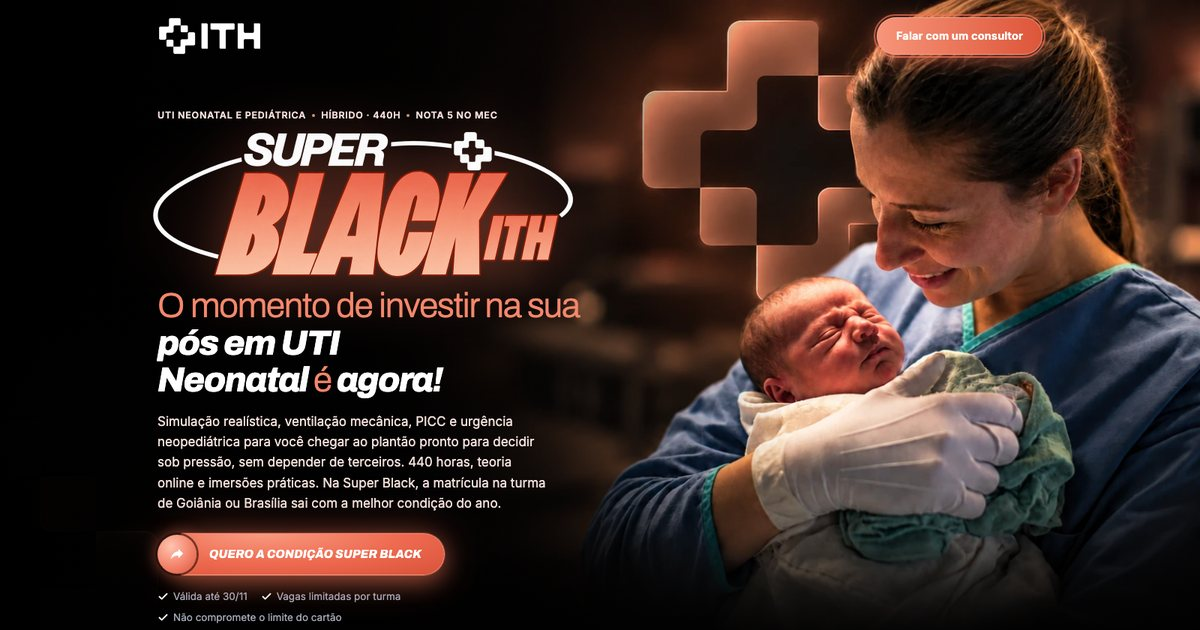
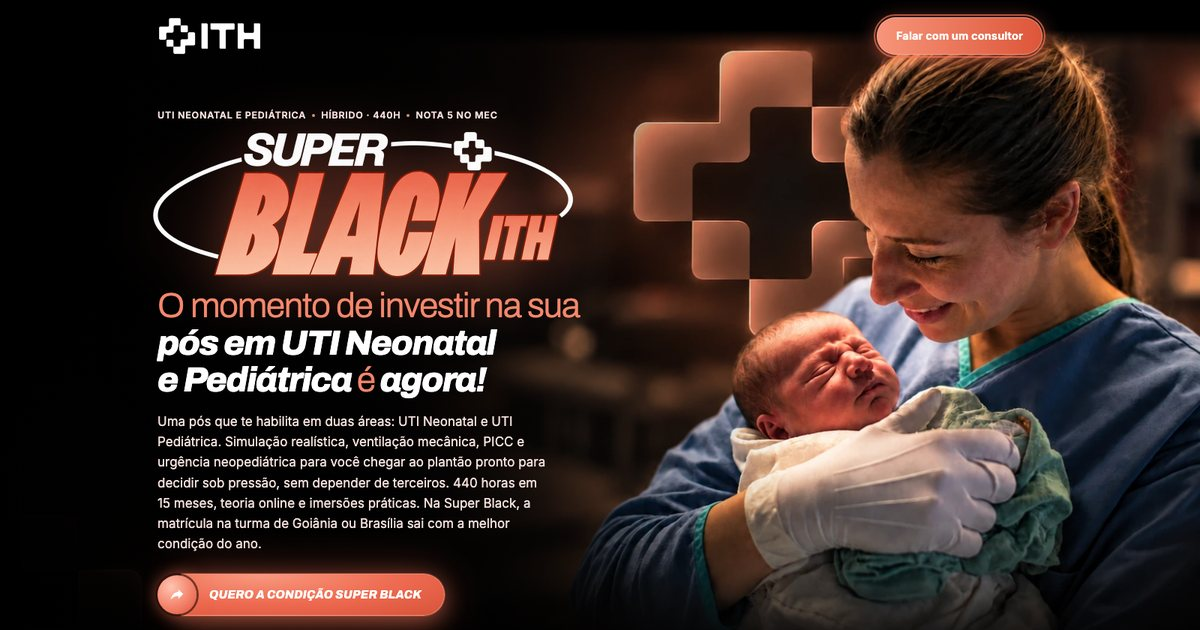
Super Black UTI Neo: nome completo UTI Neonatal e Pediátrica, habilita em duas áreas, 15 meses

diff --git a/lp/super-black-uti-neonatal-pediatrica/index.html b/lp/super-black-uti-neonatal-pediatrica/index.html
@@ -11,12 +11,12 @@
 <link rel="canonical" href="https://mkt.faculdadeith.com.br/lp/super-black-uti-neonatal-pediatrica/">
 <meta property="og:title" content="Super Black ITH · Pós em UTI Neonatal e Pediátrica">
 <meta property="og:description" content="O momento de investir na sua pós-graduação é agora. Condição Super Black até 30/11.">
-<meta property="og:image" content="https://mkt.faculdadeith.com.br/lp/super-black-uti-neonatal-pediatrica/og.jpg?v=3">
+<meta property="og:image" content="https://mkt.faculdadeith.com.br/lp/super-black-uti-neonatal-pediatrica/og.jpg?v=4">
 <meta property="og:image:width" content="1200">
 <meta property="og:image:height" content="630">
 <meta property="og:image:type" content="image/jpeg">
 <meta name="twitter:card" content="summary_large_image">
-<meta name="twitter:image" content="https://mkt.faculdadeith.com.br/lp/super-black-uti-neonatal-pediatrica/og.jpg?v=3">
+<meta name="twitter:image" content="https://mkt.faculdadeith.com.br/lp/super-black-uti-neonatal-pediatrica/og.jpg?v=4">
 <link rel="icon" href="https://faculdadeith.com.br/wp-content/uploads/2021/08/cropped-new-icon-32x32.png">
 <link rel="preconnect" href="https://fonts.googleapis.com">
 <link rel="preconnect" href="https://fonts.gstatic.com" crossorigin>
@@ -421,8 +421,8 @@ body.bar-on header.nav .logo img{height:38px}
       <div class="sb fade-in d2">
         <img src="super-black-ith-salmao.webp" alt="Super Black ITH" width="1120" height="388">
       </div>
-      <h1 class="fade-in d3">O momento de investir na sua <em>pós em UTI Neonatal <span class="c">é</span> agora!</em></h1>
-      <p class="hero-sub fade-in d4">Simulação realística, ventilação mecânica, PICC e urgência neopediátrica para você chegar ao plantão pronto para decidir sob pressão, sem depender de terceiros. 440 horas, teoria online e imersões práticas. Na Super Black, a matrícula na turma de Goiânia ou Brasília sai com a melhor condição do ano.</p>
+      <h1 class="fade-in d3">O momento de investir na sua <em>pós em UTI Neonatal e Pediátrica <span class="c">é</span> agora!</em></h1>
+      <p class="hero-sub fade-in d4">Uma pós que te habilita em duas áreas: UTI Neonatal e UTI Pediátrica. Simulação realística, ventilação mecânica, PICC e urgência neopediátrica para você chegar ao plantão pronto para decidir sob pressão, sem depender de terceiros. 440 horas em 15 meses, teoria online e imersões práticas. Na Super Black, a matrícula na turma de Goiânia ou Brasília sai com a melhor condição do ano.</p>
       <div class="fade-in d5">
         <button class="cta js-open" type="button"><span class="ic"><svg><use href="#arr"/></svg></span><span class="tx">Quero a condição Super Black</span></button>
         <div class="cta-micro"><span><svg><use href="#ck"/></svg>Válida até 30/11</span><span><svg><use href="#ck"/></svg>Vagas limitadas por turma</span><span><svg><use href="#ck"/></svg>Não compromete o limite do cartão</span></div>
@@ -435,7 +435,7 @@ body.bar-on header.nav .logo img{height:38px}
 
 <div class="stats">
   <div class="wrap">
-    <div class="grid rv"><div class="stat"><b>440h</b><span>Carga horária</span></div><div class="stat"><b>6 ou 12</b><span>Meses, você escolhe</span></div><div class="stat"><b>Várias</b><span>Imersões práticas</span></div><div class="stat"><b>Nota 5</b><span>no MEC</span></div><div class="stat"><b>95%</b><span>De satisfação</span></div></div>
+    <div class="grid rv"><div class="stat"><b>440h</b><span>Carga horária</span></div><div class="stat"><b>15 meses</b><span>De formação</span></div><div class="stat"><b>Várias</b><span>Imersões práticas</span></div><div class="stat"><b>Nota 5</b><span>no MEC</span></div><div class="stat"><b>95%</b><span>De satisfação</span></div></div>
   </div>
 </div>
 
